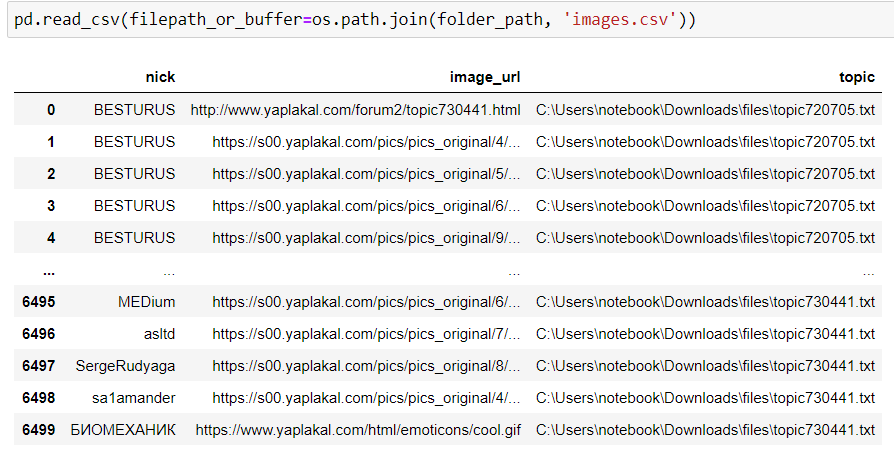
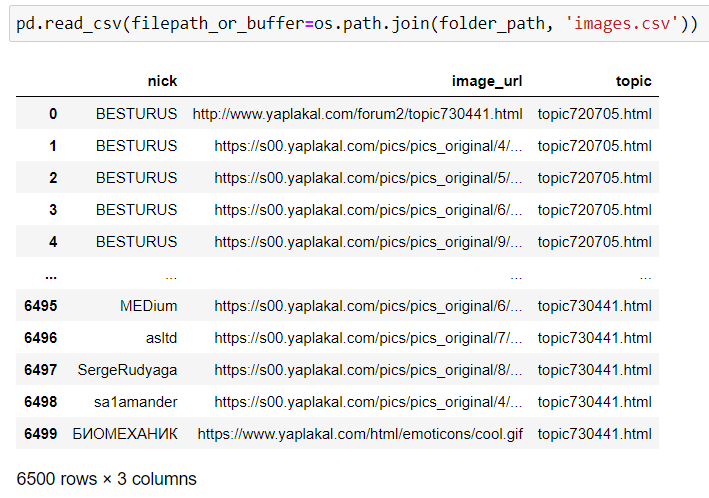
Сбор картинок с сайта yaplakal.com #2
Поправил ошибку с адресом поста

diff --git a/yap_chrome_ext/create-dataframe.py b/yap_chrome_ext/create-dataframe.py
@@ -18,7 +18,7 @@ def parse_arguments():
 
 def get_files(data_dir):
     for (dirpath, dirnames, filenames) in os.walk(data_dir):
-        return [os.path.join(data_dir, fn) for fn in filenames]
+        return filenames
 
 
 def main(args):
@@ -32,7 +32,7 @@ def main(args):
             for row in rows:
                 arr = row.split('|')
                 if len(arr) == 2:
-                    arr.append(file)
+                    arr.append(file.replace('.txt','.html'))
                     data.append(arr)
                     
     dataframe = pd.DataFrame(np.array(data), columns=['nick', 'image_url', 'topic'])
